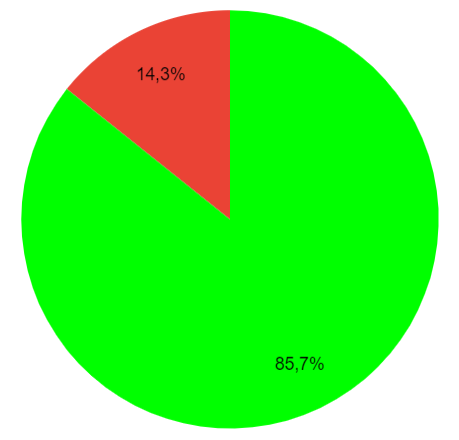
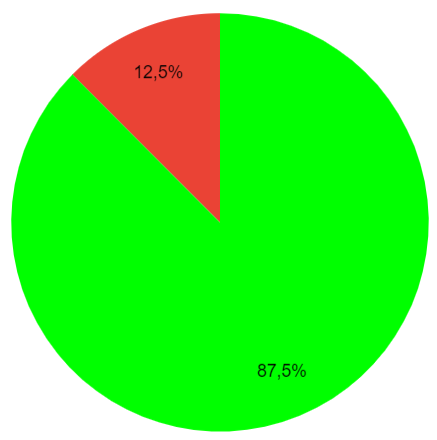
Correcoes e adicao de verificacao das personas

diff --git a/docs/analise/verificacao/personas.md b/docs/analise/verificacao/personas.md
@@ -1,0 +1,93 @@
+# Verificação das Personas
+
+## Histórico de versões
+| Data | Versão | Descrição | Autor | Revisor |
+| :---: | :---: | :---: | :---: | :---: |
+| 09/01/2022 | 0.1 | Criação do documento | Breno | Guilherme |
+
+## 1. Introdução
+
+&emsp;&emsp;Para verificar as **Personas** do projeto do Grupo 5 - [Google Maps](https://requisitos-de-software.github.io/2022.2-GoogleMaps/), usaremos a estratégia de "inspeções", seguindo o planejamento detalhado na página de [Planejamento da verificação](../planejamento.md)
+
+## 2. Preparação
+
+&emsp;&emsp;Para fazer a inspeção vamos utilizar um "checklist" com algumas perguntas com base nas referências utilizadas para a elaboração do artefato e os critérios de avaliação do artefato adotados na disciplina, dessa forma, poderemos analisar se este está correto com base nessas perguntas. Quando o critério for atentido, terá um "check" confirmando e quando não estiver , terá um "X" dizendo que não está correto. Conforme a legenda abaixo:
+
+- ✅ : Atendido
+- ❌ : Não Atendido
+
+&emsp;&emsp;Além disso, após identificarmos os erros presentes no artefato, iremos consertá-los, assim produzindo uma segunda versão do artefato e da checklist.
+
+&emsp;&emsp;A checklist definida pode ser encontrada abaixo:
+
+<center>
+
+| ID |Questão| Inspeção |
+| :---: | --- | :---: |
+| 1 | Possui versionamento? |  |
+| 2 | O artefato possui introdução? |  |
+| 3 | O artefato possui uma explicação da metodologia utilizada? |  |
+| 4 | As personas possuem os principais dados demográficos?(Nome, idade, ocupação) | |
+| 5 | As personas foram criadas com base nos perfis de usuário? | |
+| 6 | Possui um elenco de no mínimo 3 personas e no máximo 12? | |
+| 7 | Possui classificação de primária, secundária e antipersona? | |
+| 8 | A foto que representa a persona é de alguma pessoa que não existe? | |
+| 9 | As personas possuem necessidades claras? | |
+| 10 | Possui as referências utilizadas? | |
+
+
+</center>
+
+<figcaption align='center'>
+    <b>Tabela 1: Preparação checklist das Personas </b>
+    <br><small> Fonte: Tabela de considerações da apresentação da etapa 4 da disciplina de IHC(Adaptado)</small>
+</figcaption>
+
+
+## 3. Inspeção Histórias de Usuário
+
+&emsp;&emsp;A checklist após inspeção das **Personas** pode ser encontrada abaixo:
+
+<center>
+
+| ID | Questão | Inspeção |
+| :---: | --- | :---: |
+| 1 | Possui versionamento? | ✅ |
+| 2 | O artefato possui introdução? | ✅ |
+| 3 | O artefato possui uma explicação da metodologia utilizada? | ✅ |
+| 4 | As personas possuem os principais dados demográficos?(Nome, idade, ocupação) | ✅ |
+| 5 | As personas foram criadas com base nos perfis de usuário? | ✅ |
+| 6 | Possui um elenco de no mínimo 3 personas e no máximo 12? | ✅ |
+| 7 | Possui classificação de primária, secundária e antipersona? | ✅ |
+| 8 | A foto que representa a persona é de alguma pessoa que não existe? | ✅ |
+| 9 | As personas possuem necessidades claras? | ✅ |
+| 10 | Possui as referências utilizadas? | ✅ |
+
+
+</center>
+
+<figcaption align='center'>
+    <b>Tabela 2: Checklist da inspeção das Personas </b>
+</figcaption>
+
+### 3.1 Resultados da inspeção
+&emsp;&emsp; A partir da inspeção do artefato verificamos que o documento atende com 10 dos critérios de avaliação definidos, dessa forma apresentando uma taxa e acertos de 100% como podemos ver a partir do gráfico abaixo:
+
+<center>
+
+![Grafico](../assets/../../assets/vericicacao/grafico-personas.png)
+
+</center>
+
+<figcaption align='center'>
+    <b>Figura 1: Gráfico Personas  </b>
+    <br><small> Fonte: Elaboração Própria </small>
+</figcaption>
+
+
+&emsp;&emsp; A partir da inspeção do artefato verificamos que o documento atende com **100%** dos critérios de avaliação definidos na checklist, não necessitando de melhorias.
+
+
+## Referências
+
+> * SERRANO, Maurício; SERRANO, Milene. Requisitos - Aula 23. 1º/2022. Material apresentado para a disciplina de IHC no curso de Engenharia de Software da UnB, FGA.

diff --git a/docs/analise/verificacao/historias-de-usuario.md b/docs/analise/verificacao/historias-de-usuario.md
@@ -28,10 +28,10 @@
 | 2 | O artefato possui introdução? |  |
 | 3 | O artefato possui uma explicação da metodologia utilizada? |  |
 | 4 | Possui legendas nas figuras e tabelas? | |
-| 4 | As histórias de usuário seguem o padrão esperado? (Eu como usuário...) | |
-| 5 | As histórias possuem critérios de aceitação? | |
-| 6 | Possui épicos bem definidos e relacionados com as histórias de usuário? | |
-| 7 | Possui as referências utilizadas? | |
+| 5 | As histórias de usuário seguem o padrão esperado? (Eu como usuário...) | |
+| 6 | As histórias possuem critérios de aceitação? | |
+| 7 | Possui épicos bem definidos e relacionados com as histórias de usuário? | |
+| 8 | Possui as referências utilizadas? | |
 
 
 </center>
@@ -54,10 +54,10 @@
 | 2 | O artefato possui introdução? | ✅ |
 | 3 | O artefato possui uma explicação da metodologia utilizada? | ✅ |
 | 4 | Possui legendas nas figuras e tabelas? | ✅ |
-| 4 | As histórias de usuário seguem o padrão esperado? (Eu como usuário...) | ✅ |
-| 5 | As histórias possuem critérios de aceitação? | ✅ |
-| 6 | Possui épicos bem definidos e relacionados com as histórias de usuário? | ❌ |
-| 7 | Possui as referências utilizadas? | ✅ |
+| 5 | As histórias de usuário seguem o padrão esperado? (Eu como usuário...) | ✅ |
+| 6 | As histórias possuem critérios de aceitação? | ✅ |
+| 7 | Possui épicos bem definidos e relacionados com as histórias de usuário? | ❌ |
+| 8 | Possui as referências utilizadas? | ✅ |
 
 
 </center>
@@ -67,7 +67,7 @@
 </figcaption>
 
 ### 3.1 Resultados da inspeção
-&emsp;&emsp; A partir da inspeção do artefato verificamos que o documento atende com 10 dos critérios de avaliação definidos, dessa forma apresentando uma taxa e acertos de 100% como podemos ver a partir do gráfico abaixo:
+&emsp;&emsp; A partir da inspeção do artefato verificamos que o documento atende com 7 dos 8 critérios de avaliação definidos, dessa forma apresentando uma taxa e acertos de 87,5% como podemos ver a partir do gráfico abaixo:
 
 <center>
 
@@ -81,7 +81,7 @@
 </figcaption>
 
 
-&emsp;&emsp; A partir da inspeção do artefato verificamos que o documento atende com **85,7%** dos critérios de avaliação definidos na checklist, precisando de uma modificação na parte dos épicos.
+&emsp;&emsp; A partir da inspeção do artefato verificamos que o documento atende com **87,5%** dos critérios de avaliação definidos na checklist, precisando de uma modificação na parte dos épicos.
 
 
 ## Referências
